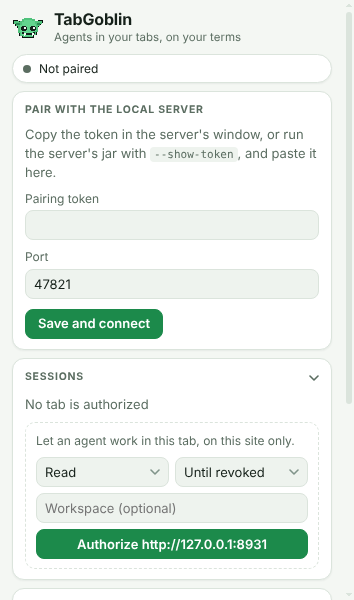
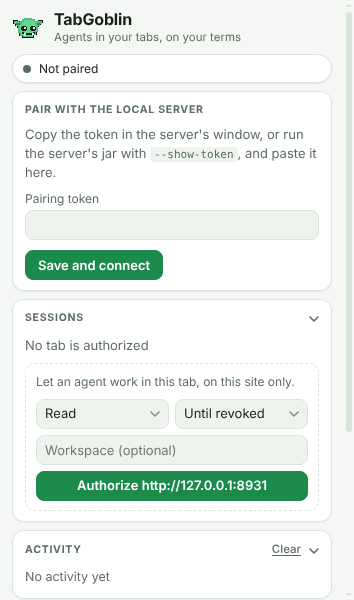
The pairing picture without a port field, and the suite's result
The end-to-end suite passed its 110 steps with the popup told its port
through the extension's storage; docs/images/popup-pairing.png shows
the form as it is: the token and the button.

diff --git a/docs/agents/validation-log.md b/docs/agents/validation-log.md
@@ -11,9 +11,10 @@ list again when it is taken out). The server's `BrowserServiceTest` (35), `Ports
 new on the words about ports), `PanelModelTest` (17), `McpMainTest` (18), `HubTest` (17),
 `CliTest`, none failed; `PanelTest` under a virtual display 19 of 20, the icon test wanting the
 extension's icons beside the copy as before. The end-to-end suite, with the popup told the port
-through the extension's storage: its first fifty steps passed, among them the pairing steps and
-the one that asserts the popup has no port field; the whole run's result is in the next entry.
-Links 352, nothing personal, no drift, the SVG files as drawn.
+through the extension's storage: 110 passed, 0 failed, among them the pairing steps, the one
+that asserts the popup has no port field, and the hand-made server reached by a port written
+into the storage. The pairing picture was captured anew under the virtual display and opened:
+token field and button, no port. Links 352, nothing personal, no drift, the SVG files as drawn.
 
 ## 2026-11-28, branch `one-port` after `9a6e233`: the documentation rules and the alignment review
 
